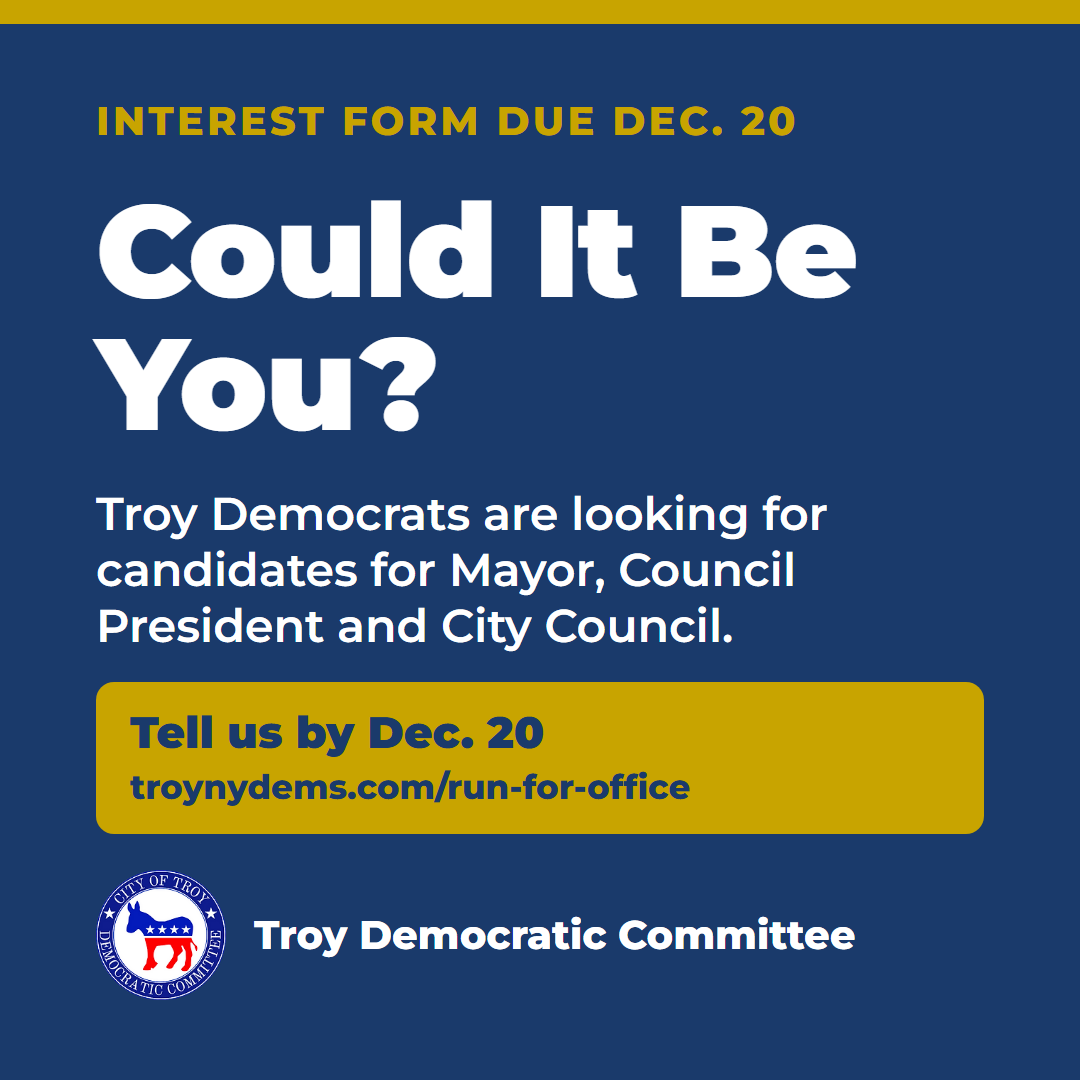
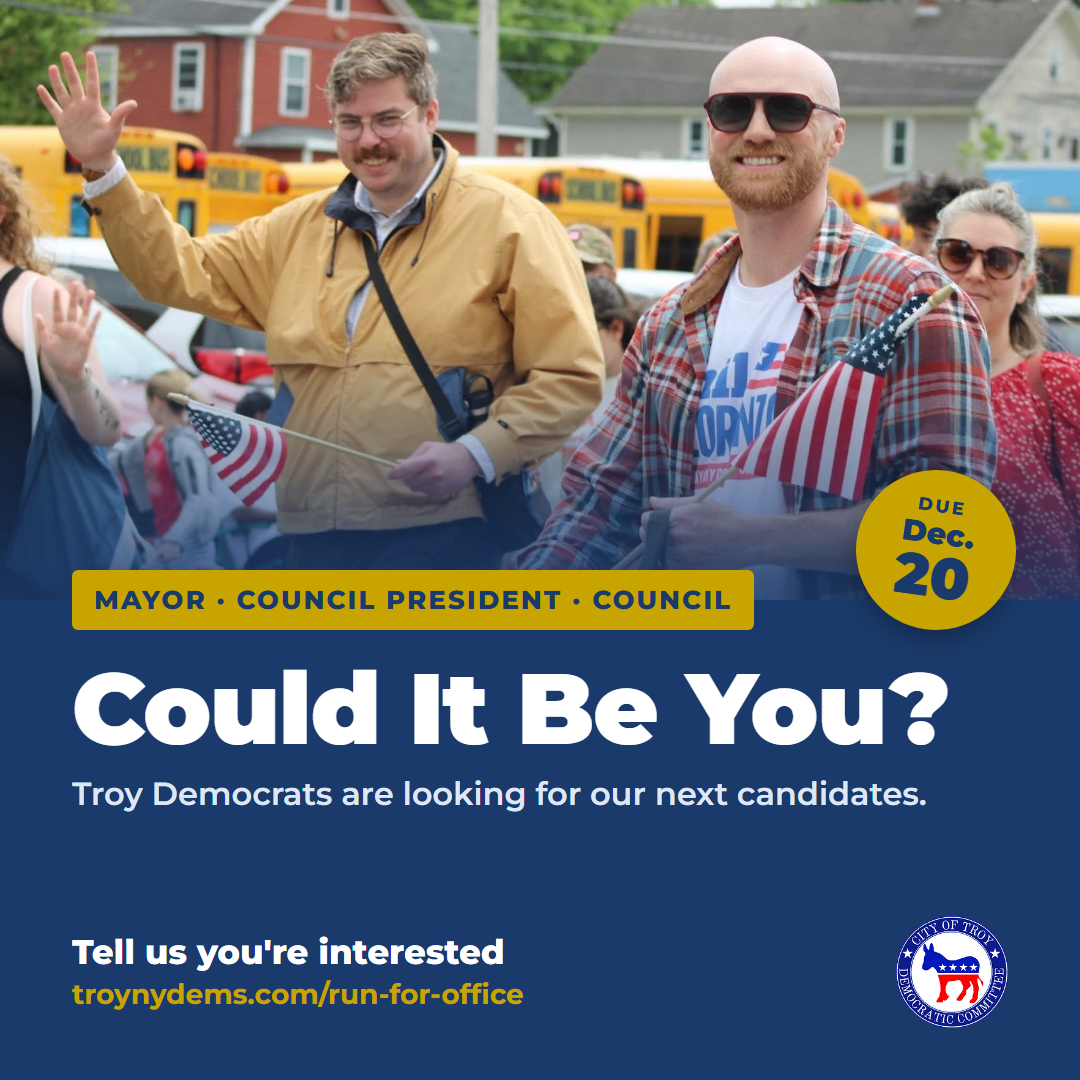
Switch run-for-office graphics to a photo-led template
Each graphic now leads with a Troy photo from the site's images folder,
with a navy text panel and a gold "Due Dec. 20" sticker, so the series
stands apart from the text-only holiday posts. Wide group photos show
in full over a blurred fill instead of being cropped. Alt text updated
to describe each photo.

diff --git a/run-for-office-posts/template.html b/run-for-office-posts/template.html
@@ -1,22 +1,30 @@
 <!DOCTYPE html><html><head><meta charset="utf-8">
-<link href="https://fonts.googleapis.com/css2?family=Montserrat:wght@600;800;900&display=block" rel="stylesheet">
+<link href="https://fonts.googleapis.com/css2?family=Montserrat:wght@600;700;800;900&display=block" rel="stylesheet">
 <style>
 *{margin:0;padding:0;box-sizing:border-box}
 html,body{width:1080px;height:1080px;overflow:hidden}
 body{background:#1a3a6b;font-family:Montserrat,sans-serif;color:#fff;position:relative}
-.bar{position:absolute;left:0;top:0;width:100%;height:24px;background:#C8A400}
-.wrap{position:absolute;left:96px;right:96px;top:96px;bottom:80px;display:flex;flex-direction:column}
-.kicker{font-weight:800;font-size:40px;letter-spacing:.08em;text-transform:uppercase;color:#C8A400}
-h1{font-weight:900;font-size:__HS__px;line-height:1.02;margin-top:40px;letter-spacing:-.01em}
-.sub{font-weight:600;font-size:46px;line-height:1.22;margin-top:36px}
-.cta{margin-top:auto;background:#C8A400;color:#1a3a6b;border-radius:18px;padding:26px 34px}
-.cta1{font-weight:900;font-size:44px;line-height:1.1}
-.cta2{font-weight:800;font-size:34px;margin-top:10px}
-.foot{margin-top:36px;display:flex;align-items:center;gap:28px}
-.foot img{width:130px;height:130px;object-fit:contain}
-.by2{font-weight:800;font-size:40px;line-height:1.1}
-</style></head><body><div class="bar"></div><div class="wrap">
+.photo{position:absolute;left:0;top:0;width:1080px;height:600px;overflow:hidden;background:#1a3a6b}
+.photo img{position:absolute;inset:0;width:100%;height:100%;object-fit:cover;object-position:__POS__;display:block;filter:__FILTER__}
+.photo img.bg{filter:blur(28px) brightness(.55) __FILTER2__;transform:scale(1.15)}
+.photo.wide img.fg{top:auto;bottom:0;height:auto;object-fit:contain;-webkit-mask-image:linear-gradient(180deg,transparent 0,#000 18%);mask-image:linear-gradient(180deg,transparent 0,#000 18%)}
+.photo::after{content:"";position:absolute;inset:0;background:linear-gradient(180deg,rgba(26,58,107,0) 55%,rgba(26,58,107,.85) 100%)}
+.date{position:absolute;top:470px;right:64px;width:160px;height:160px;border-radius:50%;background:#C8A400;color:#1a3a6b;display:flex;flex-direction:column;align-items:center;justify-content:center;transform:rotate(8deg);box-shadow:0 8px 24px rgba(0,0,0,.3);z-index:2}
+.date .t{font-weight:800;font-size:18px;letter-spacing:.14em;text-transform:uppercase}
+.date .m{font-weight:900;font-size:30px;line-height:1;margin-top:2px}
+.date .d{font-weight:900;font-size:58px;line-height:.95}
+.panel{position:absolute;left:0;right:0;top:600px;bottom:0;padding:0 72px 52px;display:flex;flex-direction:column}
+.kicker{align-self:flex-start;margin-top:-30px;background:#C8A400;color:#1a3a6b;font-weight:800;font-size:26px;letter-spacing:.08em;text-transform:uppercase;padding:14px 22px;border-radius:6px;position:relative;z-index:2}
+h1{font-weight:900;font-size:__HS__px;line-height:1.0;margin-top:28px;letter-spacing:-.01em}
+.sub{font-weight:600;font-size:32px;line-height:1.25;margin-top:16px;color:#dfe7f5}
+.foot{margin-top:auto;display:flex;align-items:center;justify-content:space-between;gap:24px}
+.cta{font-weight:800;font-size:34px;line-height:1.15}
+.cta span{display:block;color:#C8A400;font-weight:700;font-size:28px;margin-top:6px}
+.foot img{width:112px;height:112px;object-fit:contain;flex:none}
+</style></head><body>
+<div class="photo __FIT__"><img class="bg" src="__PHOTO__" alt=""><img class="fg" src="__PHOTO__" alt=""></div>
+<div class="date"><div class="t">Due</div><div class="m">Dec.</div><div class="d">20</div></div>
+<div class="panel">
 <div class="kicker">__KICKER__</div><h1>__HEADLINE__</h1><div class="sub">__SUB__</div>
-<div class="cta"><div class="cta1">__CTA__</div><div class="cta2">troynydems.com/run-for-office</div></div>
-<div class="foot"><img src="logo.png" alt=""><div class="by2">Troy Democratic Committee</div></div>
+<div class="foot"><div class="cta">__CTA__<span>troynydems.com/run-for-office</span></div><img src="logo.png" alt=""></div>
 </div></body></html>

diff --git a/run-for-office-posts/render.py b/run-for-office-posts/render.py
@@ -1,10 +1,12 @@
 """Render run-for-office graphics (1080x1080) from posts.json.
 
-  python run-for-office-posts/render.py            # render every post
+  python run-for-office-posts/render.py              # render every post
   python run-for-office-posts/render.py invitation   # render posts whose id contains "invitation"
 
-Each post in posts.json: id, kicker, headline, sub, size (headline px, default 140),
-flag (true adds the red-and-white stripe and gold stars). Always look at the PNG afterward.
+Each post in posts.json: id, photo (a file in images/), pos (CSS object-position for the
+photo crop, default "center"), bw (true shows the photo in black and white), fit ("width" shows the whole width of
+a wide group photo over a blurred copy instead of cropping it), kicker,
+headline, sub, cta, size (headline px). Always look at the PNG afterward.
 """
 import html
 import json
@@ -15,12 +17,12 @@ import sys
 import tempfile
 
 HERE = os.path.dirname(os.path.abspath(__file__))
+SITE = os.path.dirname(HERE)
 OUT_DIR = os.path.join(HERE, "graphics")
 CHROME_PATHS = [
     r"C:\Program Files\Google\Chrome\Application\chrome.exe",
     r"C:\Program Files (x86)\Microsoft\Edge\Application\msedge.exe",
 ]
-FLAG = '<div class="stripes"></div><div class="stars">&#9733;&#9733;&#9733;</div>'
 
 
 def main():
@@ -31,28 +33,37 @@ def main():
     if not chrome:
         raise SystemExit("Chrome or Edge not found.")
     work = tempfile.mkdtemp()
-    shutil.copy(os.path.join(HERE, "..", "holiday-posts", "logo.png"), work)
+    shutil.copy(os.path.join(SITE, "holiday-posts", "logo.png"), work)
     os.makedirs(OUT_DIR, exist_ok=True)
 
     for p in posts:
         if match not in p["id"]:
             continue
-        page = (tpl.replace("__KICKER__", html.escape(p["kicker"]))
+        shutil.copy(os.path.join(SITE, "images", p["photo"]), work)
+        page = (tpl.replace("__PHOTO__", html.escape(p["photo"]))
+                   .replace("__POS__", p.get("pos", "center"))
+                   .replace("__FILTER__", "grayscale(1) contrast(1.05)" if p.get("bw") else "none")
+                   .replace("__FILTER2__", "grayscale(1)" if p.get("bw") else "")
+                   .replace("__FIT__", "wide" if p.get("fit") == "width" else "")
+                   .replace("__KICKER__", html.escape(p["kicker"]))
                    .replace("__HEADLINE__", html.escape(p["headline"]))
                    .replace("__SUB__", html.escape(p["sub"]))
-                   .replace("__HS__", str(p.get("size", 140)))
+                   .replace("__HS__", str(p.get("size", 96)))
                    .replace("__CTA__", html.escape(p["cta"])))
         src = os.path.join(work, p["id"] + ".html")
         open(src, "w", encoding="utf-8").write(page)
-        out = os.path.join(OUT_DIR, p["id"] + ".png")
-        if os.path.exists(out):
-            os.remove(out)
+        tmp = os.path.join(work, p["id"] + ".png")
         subprocess.run([chrome, "--headless=new", "--disable-gpu", "--hide-scrollbars",
                         "--force-device-scale-factor=1", "--window-size=1080,1080",
-                        "--virtual-time-budget=8000", f"--screenshot={out}",
+                        "--virtual-time-budget=8000", f"--screenshot={tmp}",
                         "file:///" + src.replace("\\", "/")],
                        check=False, stdout=subprocess.DEVNULL, stderr=subprocess.DEVNULL)
-        print(("ok   " if os.path.exists(out) else "FAIL ") + out)
+        out = os.path.join(OUT_DIR, p["id"] + ".png")
+        if not os.path.exists(tmp):
+            print("FAIL " + out)
+            continue
+        shutil.copyfile(tmp, out)  # copy over instead of delete, so a file open elsewhere doesn't block it
+        print("ok   " + out)
 
 
 if __name__ == "__main__":

diff --git a/run-for-office-posts/README.md b/run-for-office-posts/README.md
@@ -8,7 +8,7 @@ Facebook posts inviting Troy residents to fill out the interest form at troynyde
 
 **Style:** warm and encouraging. Hook in the first line. No em dashes. Short sentences. Follows VOICE_GUIDE.md: no sweeping openers, no inspirational wrap-ups, start and end on substance. Sign off as the City of Troy Democratic Committee.
 
-**Graphics:** edit `posts.json`, then run `python run-for-office-posts/render.py`. Check every PNG after rendering.
+**Graphics:** photo-led template. Each graphic uses a photo from the site's `images/` folder. Edit `posts.json`, then run `python run-for-office-posts/render.py`. Check every PNG after rendering.
 
 **Link:** posts link to https://troynydems.com/run-for-office#candidate-form, which jumps straight to the form.
 
@@ -35,7 +35,7 @@ Post date: Wed., Dec. 2
 
 Graphic: `graphics/1-the-ask.png`
 
-Alt text: *Graphic reading "Interest form due Dec. 20. Could It Be You? Troy Democrats are looking for candidates for Mayor, Council President and City Council. Tell us by Dec. 20: troynydems.com/run-for-office." Troy Democratic Committee logo.*
+Alt text: *Photo of Troy Democrats waving and carrying small American flags in a parade. Text reads "Mayor · Council President · Council. Could It Be You? Troy Democrats are looking for our next candidates. Tell us you're interested: troynydems.com/run-for-office." A gold circle reads "Due Dec. 20." Troy Democratic Committee logo.*
 
 > Troy Democrats are looking for our next candidates for Mayor, City Council President and City Council. Could it be you?
 >
@@ -55,7 +55,7 @@ Post date: Mon., Dec. 14
 
 Graphic: `graphics/2-low-pressure.png`
 
-Alt text: *Graphic reading "Thinking about running? Start With a Conversation. Mayor, Council President or City Council. No commitment. Fill out the form by Dec. 20: troynydems.com/run-for-office." Troy Democratic Committee logo.*
+Alt text: *Photo of a ribbon cutting outside Troy Bike Rescue with a crowd of neighbors. Text reads "Thinking about running? Start With a Conversation. No commitment. Just a conversation. Fill out the interest form: troynydems.com/run-for-office." A gold circle reads "Due Dec. 20." Troy Democratic Committee logo.*
 
 > Filling out a form doesn't put your name on a ballot. 🙂
 >
@@ -81,7 +81,7 @@ Post date: Mon., Dec. 7
 
 Graphic: `graphics/3-the-jobs.png`
 
-Alt text: *Graphic reading "Three ways to serve Troy. Help Lead Troy. Mayor, Council President and City Council shape how our city runs and spends. Raise your hand by Dec. 20: troynydems.com/run-for-office." Troy Democratic Committee logo.*
+Alt text: *Historic black-and-white photo of a large crowd in Monument Square in Troy. Text reads "Three ways to serve Troy. Help Lead Troy. Mayor, Council President and City Council. Raise your hand: troynydems.com/run-for-office." A gold circle reads "Due Dec. 20." Troy Democratic Committee logo.*
 
 > Who decides how Troy plows its streets, spends its tax dollars, and answers residents? These offices carry a lot of that weight.
 >
@@ -105,7 +105,7 @@ Post date: Thu., Dec. 17
 
 Graphic: `graphics/4-invitation.png`
 
-Alt text: *Graphic reading "“You should run for office.” They Might Be Right. Mayor, Council President or City Council. We want to hear from you. Fill out the form by Dec. 20: troynydems.com/run-for-office." Troy Democratic Committee logo.*
+Alt text: *Photo of the Troy City Council members for the 2025-2027 term at their swearing-in. Text reads "“You should run for office.” They Might Be Right. Mayor, Council President or City Council. Fill out the interest form: troynydems.com/run-for-office." A gold circle reads "Due Dec. 20." Troy Democratic Committee logo.*
 
 > Has someone ever told you, "You should run for office"? They might have been right.
 >
